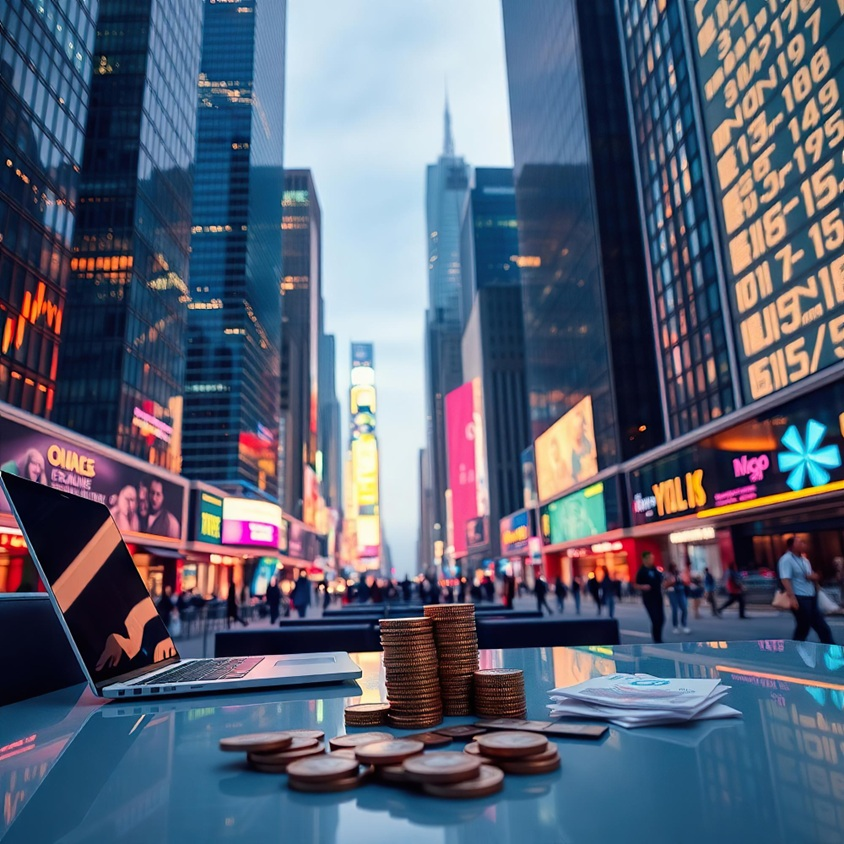
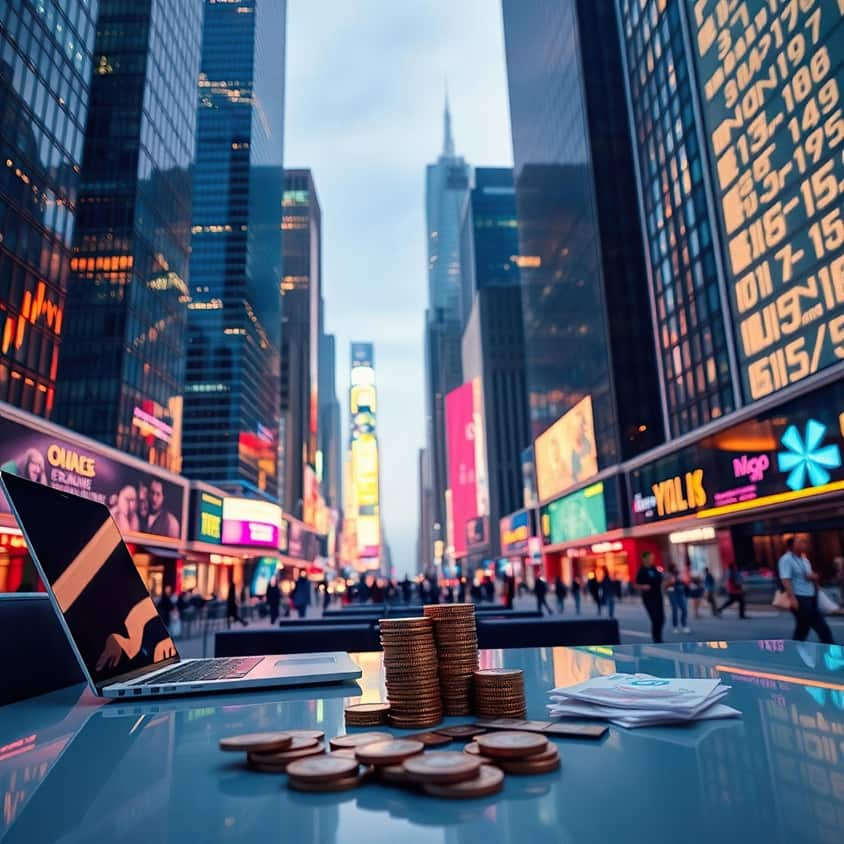
feat: implement blog listing page with pagination, filtering, and sidebar functionality

Changed region(s): [[0.2156, 0.3389, 0.2464, 0.3697], [0.1848, 0.7701, 0.2156, 0.8009]]

diff --git a/src/app/blog/page.tsx b/src/app/blog/page.tsx
@@ -1,6 +1,7 @@
 import Link from 'next/link';
 import { cmsService } from '@/services/cms.service';
 import BlogListingClient from './BlogListingClient';
+import BlogSidebar from '@/components/ui/BlogSidebar';
 
 import { Metadata } from 'next';
 import { getDynamicMetadata } from '@/lib/metadata';
@@ -9,8 +10,30 @@ export async function generateMetadata(): Promise<Metadata> {
   return getDynamicMetadata('/blog');
 }
 
-export default async function BlogIndexPage() {
-  const posts = await cmsService.fetchBlogPosts({ is_featured: 1 });
+export default async function BlogIndexPage({
+  searchParams,
+}: {
+  searchParams: { page?: string, category?: string, tag?: string }
+}) {
+  const resolvedSearchParams = await searchParams;
+  const page = Number(resolvedSearchParams?.page) || 1;
+  const category = resolvedSearchParams?.category || '';
+  const tag = resolvedSearchParams?.tag || '';
+
+  const filters: any = {};
+  if (category) filters.category = category;
+  if (tag) filters.tag = tag;
+
+  const allPosts = await cmsService.fetchBlogPosts(filters);
+  const totalPosts = allPosts.length;
+  const postsPerPage = 10;
+  const totalPages = Math.ceil(totalPosts / postsPerPage);
+
+  const posts = allPosts.slice((page - 1) * postsPerPage, page * postsPerPage);
+
+  const categories = await cmsService.fetchBlogCategories();
+  const tags = await cmsService.fetchBlogTags();
+  const latestPosts = await cmsService.fetchBlogPosts({ per_page: 3 });
 
   return (
     <main>
@@ -39,32 +62,69 @@ export default async function BlogIndexPage() {
       <section className="news-secton section-padding fix">
         <div className="auto-container">
           <div className="row">
-            {posts.map((post, idx) => (
-              <div key={idx} className="col-xl-4 col-lg-4 col-md-6">
-                <div className="news-box-items">
-                  <div className="news-image">
-                    <img src={post.image} alt={post.title} />
-                    <img src={post.image} alt={post.title} />
-                    <span className="post-box">
-                      <span className="date">{post.date}</span>
-                      <span className="month">{post.month}</span>
-                    </span>
+            <div className="col-xl-8 col-lg-7">
+              <div className="row">
+                {posts.map((post, idx) => (
+                  <div key={idx} className="col-xl-6 col-lg-6 col-md-6 mb-4">
+                    <div className="news-box-items mt-0" style={{ height: '100%' }}>
+                      <div className="news-image">
+                        <img src={post.image} alt={post.title} />
+                        <img src={post.image} alt={post.title} />
+                        <span className="post-box">
+                          <span className="date">{post.date}</span>
+                          <span className="month">{post.month}</span>
+                        </span>
+                      </div>
+                      <div className="news-content">
+                        <ul className="comments-list">
+                          <li><i className="lnr-icon-user1"></i> {post.author}</li>
+                        </ul>
+                        <h3>
+                          <Link href={`/blog/${post.slug}`}>{post.title}</Link>
+                        </h3>
+                        <Link href={`/blog/${post.slug}`} className="link-btn">
+                          Learn More
+                          <span className="icon"><i className="lnr-icon-arrow-right"></i></span>
+                        </Link>
+                      </div>
+                    </div>
                   </div>
-                  <div className="news-content">
-                    <ul className="comments-list">
-                      <li><i className="lnr-icon-user1"></i> {post.author}</li>
-                    </ul>
-                    <h3>
-                      <Link href={`/blog/${post.slug}`}>{post.title}</Link>
-                    </h3>
-                    <Link href={`/blog/${post.slug}`} className="link-btn">
-                      Learn More
-                      <span className="icon"><i className="lnr-icon-arrow-right"></i></span>
-                    </Link>
+                ))}
+
+                {posts.length === 0 && (
+                  <div className="col-12 text-center">
+                    <p>No posts found for the selected criteria.</p>
                   </div>
-                </div>
+                )}
               </div>
-            ))}
+
+              {/* Pagination */}
+              {totalPages > 1 && (
+                <div className="text-center mt-5">
+                  <ul className="modern-pagination">
+                    {page > 1 && (
+                      <li><Link href={`/blog?page=${page - 1}${category ? `&category=${category}` : ''}${tag ? `&tag=${tag}` : ''}`}><i className="fas fa-angle-left"></i></Link></li>
+                    )}
+                    {Array.from({ length: totalPages }, (_, i) => i + 1).map(pageNum => (
+                      <li key={pageNum}>
+                        <Link href={`/blog?page=${pageNum}${category ? `&category=${category}` : ''}${tag ? `&tag=${tag}` : ''}`} className={pageNum === page ? 'active' : ''}>{pageNum}</Link>
+                      </li>
+                    ))}
+                    {page < totalPages && (
+                      <li><Link href={`/blog?page=${page + 1}${category ? `&category=${category}` : ''}${tag ? `&tag=${tag}` : ''}`}><i className="fas fa-angle-right"></i></Link></li>
+                    )}
+                  </ul>
+                </div>
+              )}
+            </div>
+
+            <div className="col-xl-4 col-lg-5">
+              <BlogSidebar
+                categories={categories.map((c: any) => ({ ...c, active: c.id === category }))}
+                tags={tags}
+
+              />
+            </div>
           </div>
         </div>
       </section>

diff --git a/public/css/custom.css b/public/css/custom.css
@@ -5681,21 +5681,10 @@ select.prequal-country-code option {
   color: #103C3B !important;
 }
 
-/* Deactivated Peripheral Links */
-.blog-details__meta li span,
-.blog-details__tags span:not(:first-child),
-.blog-details__social-list span,
-.sidebar__link-span,
-.sidebar__tag-span,
-.sidebar__post-title-span,
-.sidebar__post-content-meta {
-  cursor: default !important;
-  display: inline-flex;
-  align-items: center;
-  gap: 8px;
-  color: #777;
-  /* Neutral color for non-clickable links */
-  transition: none !important;
+.sidebar__tags-list a {
+  font-size: 12px;
+  padding: 3px 10px 3px;
+
 }
 
 .sidebar__post-title-span {
@@ -5738,7 +5727,7 @@ select.prequal-country-code option {
   background: #f7f7f7;
   border-radius: 30px;
   font-size: 14px;
-  margin: 0 5px 10px 0;
+  margin: 0 5px 0px 0;
   display: inline-block !important;
 }
 
@@ -5955,4 +5944,97 @@ select.prequal-country-code option {
 .custom-address {
   line-height: 26px;
   max-width: 350px;
+}
+
+/* Custom Sidebar Search */
+.custom-sidebar-search-wrapper {
+  padding: 0 !important;
+  background: transparent !important;
+  box-shadow: none !important;
+  margin-bottom: 30px;
+}
+
+.custom-sidebar-search {
+  background-color: #103C3B;
+  border-radius: 12px;
+  display: flex;
+  align-items: center;
+  padding: 0 25px;
+  height: 60px;
+  width: 100%;
+}
+
+.custom-sidebar-search input {
+  flex: 1;
+  background: transparent !important;
+  border: none !important;
+  color: #fff !important;
+  font-size: 16px;
+  outline: none !important;
+  box-shadow: none !important;
+  padding: 0 !important;
+  width: 100%;
+}
+
+.custom-sidebar-search input::placeholder {
+  color: rgba(255, 255, 255, 0.7) !important;
+}
+
+.custom-sidebar-search button {
+  background: transparent !important;
+  border: none !important;
+  color: #fff !important;
+  font-size: 20px;
+  cursor: default;
+  padding: 0;
+  display: flex;
+  align-items: center;
+  justify-content: center;
+}
+
+/* Modern Pagination */
+.modern-pagination {
+  display: flex;
+  justify-content: center;
+  align-items: center;
+  gap: 10px;
+  list-style: none;
+  padding: 0;
+  margin: 40px 0 0 0;
+}
+
+.modern-pagination li {
+  display: inline-flex;
+}
+
+.modern-pagination li a {
+  display: flex;
+  align-items: center;
+  justify-content: center;
+  min-width: 45px;
+  height: 45px;
+  border-radius: 8px;
+  background-color: #f4f5f6;
+  color: #103C3B;
+  font-weight: 600;
+  font-size: 16px;
+  text-decoration: none;
+  transition: all 0.3s ease;
+  border: 1px solid transparent;
+}
+
+.modern-pagination li a:hover {
+  background-color: #e5e7eb;
+  color: #103C3B;
+}
+
+.modern-pagination li a.active {
+  background-color: #103C3B;
+  color: #ffffff;
+  border-color: #103C3B;
+  box-shadow: 0 4px 10px rgba(16, 60, 59, 0.2);
+}
+
+.modern-pagination li a i {
+  font-size: 14px;
 }

diff --git a/src/components/ui/BlogSidebar.tsx b/src/components/ui/BlogSidebar.tsx
@@ -3,10 +3,10 @@ import Link from 'next/link';
 export default function BlogSidebar({ categories, tags, latestPosts }) {
   return (
     <div className="sidebar">
-      <div className="sidebar__single sidebar__search">
-        <div className="sidebar__search-form">
-          <input type="search" placeholder="Search here" readOnly />
-          <button type="button" style={{ cursor: 'default' }}><i className="far fa-search"></i></button>
+      <div className="sidebar__single custom-sidebar-search-wrapper">
+        <div className="custom-sidebar-search">
+          <input type="search" placeholder="Search here" />
+          <button type="button" style={{ cursor: 'default' }}><i className="fa-solid fa-magnifying-glass"></i></button>
         </div>
       </div>
 
@@ -21,7 +21,7 @@ export default function BlogSidebar({ categories, tags, latestPosts }) {
                 </div>
                 <div className="sidebar__post-content">
                   <h3>
-                    <span className="sidebar__post-title-span">{post.title}</span>
+                    <Link href={`/blog/${post.slug}`} className="sidebar__post-title-span">{post.title}</Link>
                   </h3>
                 </div>
               </li>
@@ -30,16 +30,16 @@ export default function BlogSidebar({ categories, tags, latestPosts }) {
         </div>
       )}
 
-      {categories && categories.length > 0 && (
+      {categories && categories.filter((cat: any) => cat.count > 0).length > 0 && (
         <div className="sidebar__single sidebar__category">
           <h3 className="sidebar__title">Categories</h3>
           <ul className="sidebar__category-list list-unstyled">
-            {categories.map((cat, index) => (
+            {categories.filter((cat: any) => cat.count > 0).map((cat, index) => (
               <li key={index} className={cat.active ? 'active' : ''}>
-                <span className="sidebar__link-span">
+                <Link href={`/blog?category=${cat.id}`} className="sidebar__link-span" style={{ display: 'flex', justifyContent: 'space-between', width: '100%', alignItems: 'center' }}>
                   {cat.label}
                   <span className="icon-right-arrow"></span>
-                </span>
+                </Link>
               </li>
             ))}
           </ul>
@@ -51,7 +51,7 @@ export default function BlogSidebar({ categories, tags, latestPosts }) {
           <h3 className="sidebar__title">Tags</h3>
           <div className="sidebar__tags-list">
             {tags.map((tag, index) => (
-              <span key={index} className="sidebar__tag-span">{tag}</span>
+              <Link key={index} href={`/blog?tag=${tag}`} className="sidebar__tag-span">{tag}</Link>
             ))}
           </div>
         </div>

diff --git a/src/components/layout/Footer.tsx b/src/components/layout/Footer.tsx
@@ -9,6 +9,7 @@ const quickLinks = [
   { href: '/funding-options', label: 'Funding Options' },
   { href: '/credit-builder', label: 'Credit Builder' },
   { href: '/partner-program', label: 'Partner Program' },
+  { href: '/blog', label: 'Blog' },
   { href: '/contact', label: 'Contact Us' },
   { href: '/faq', label: 'FAQ' },
 ];
@@ -91,7 +92,11 @@ export default function Footer() {
                 </div>
                 <div className="footer-content">
                   <p className="text-white custom-address" style={{ whiteSpace: 'pre-line' }}>
-                    {settings?.site_name || ""} <br />
+                    {settings?.site_name || ""}
+                    {/* {formatAddress(settings?.address)} */}
+                  </p>
+                  <p className="text-white custom-address" style={{ whiteSpace: 'pre-line' }}>
+                    {/* {settings?.site_name || ""} <br /> */}
                     {formatAddress(settings?.address)}
                   </p>
                   <ul className="contact-list-2 mb-4">
@@ -109,8 +114,7 @@ export default function Footer() {
                   </ul>
                   <div className="footer-btn">
                     <Link href="/pre-qualification" className="footer-cta-btn">
-                      Get Pre-Qualified <span className="arrow"><i
-                        className="fa-regular fa-arrow-right"></i></span>
+                      Get Pre-Qualified <span className="arrow"><i className="fa-solid fa-arrow-right"></i></span>
                     </Link>
                   </div>
                 </div>

diff --git a/src/components/faq/FaqSection.tsx b/src/components/faq/FaqSection.tsx
@@ -95,6 +95,17 @@ export default function FaqSection({ data }) {
             transform: translateY(0);
           }
         }
+
+        @media (max-width: 767px) {
+          .faq-section .faq-acc-btn {
+            font-size: 18px !important;
+            line-height: 24px !important;
+          }
+          .faq-section .faq-acc-content .text {
+            font-size: 15px !important;
+            line-height: 21px !important;
+          }
+        }
       `}</style>
         </section>
     );

diff --git a/src/data/home.ts b/src/data/home.ts
@@ -11,7 +11,7 @@ export const homeConfig: HomeData = {
     images: {
       bg: "/images/home-3/hero/hero-bg.png",
       main: "/images/home-3/hero/hero-image.png",
-      small: "/images/home-3/image.jpeg",
+      small: "/images/home-3/image.jpg",
       ellipse: "/images/home-3/hero/ellipse-shape.png",
       star: "/images/home-3/hero/white-star.png",
       paperShape: "/images/home-3/hero/paper-shape.png",
